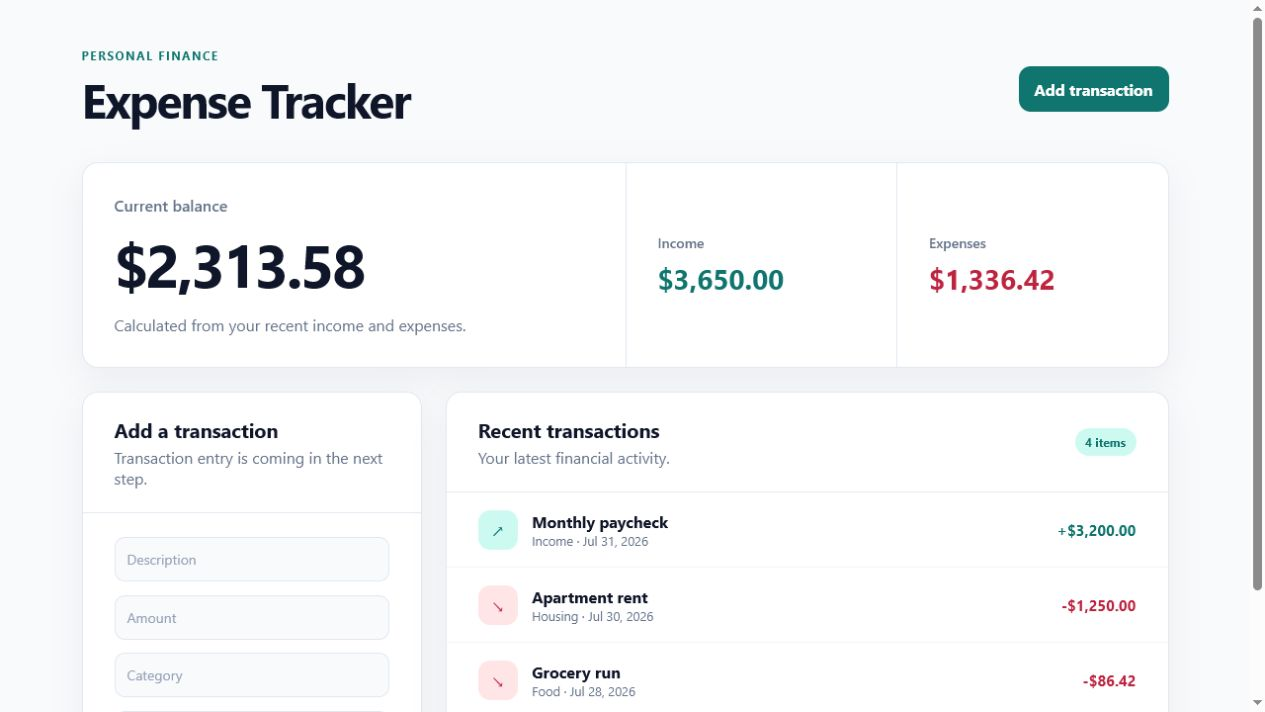
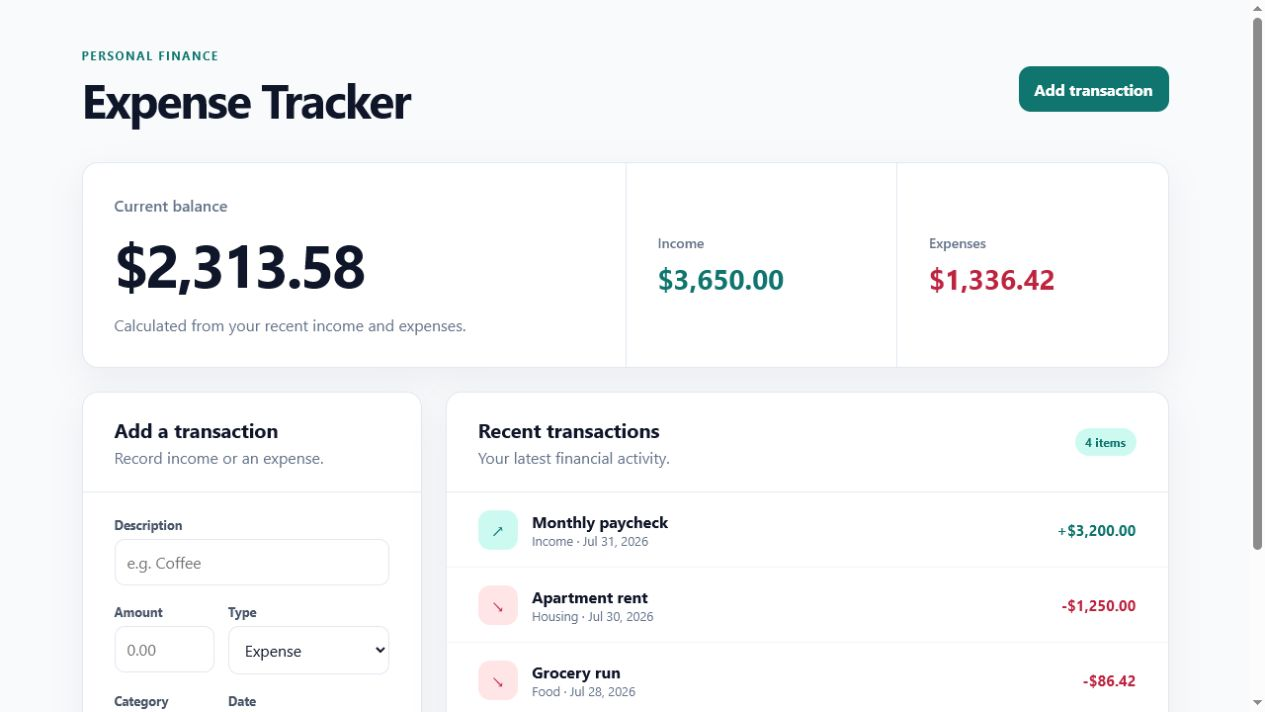
feat: add working transaction form

diff --git a/src/components/TransactionForm.jsx b/src/components/TransactionForm.jsx
@@ -1,18 +1,148 @@
-function TransactionForm() {
+import { useState } from 'react'
+
+const today = new Date()
+const localDate = `${today.getFullYear()}-${String(today.getMonth() + 1).padStart(2, '0')}-${String(
+  today.getDate(),
+).padStart(2, '0')}`
+
+const initialFormData = {
+  description: '',
+  amount: '',
+  type: 'expense',
+  category: 'Food',
+  date: localDate,
+}
+
+const categories = ['Food', 'Housing', 'Transportation', 'Entertainment', 'Income', 'Other']
+
+function TransactionForm({ descriptionInputRef, onAddTransaction }) {
+  const [formData, setFormData] = useState(initialFormData)
+  const [error, setError] = useState('')
+
+  function handleChange(event) {
+    const { name, value } = event.target
+
+    setFormData((currentFormData) => ({
+      ...currentFormData,
+      [name]: value,
+    }))
+    setError('')
+  }
+
+  function handleTypeChange(event) {
+    const type = event.target.value
+
+    setFormData((currentFormData) => ({
+      ...currentFormData,
+      type,
+      category: type === 'income' ? 'Income' : 'Food',
+    }))
+    setError('')
+  }
+
+  function handleSubmit(event) {
+    event.preventDefault()
+
+    const description = formData.description.trim()
+    const amount = Number(formData.amount)
+
+    if (!description || !Number.isFinite(amount) || amount <= 0) {
+      setError('Enter a description and an amount greater than zero.')
+      return
+    }
+
+    onAddTransaction({
+      ...formData,
+      description,
+      amount,
+    })
+    setFormData(initialFormData)
+    setError('')
+    descriptionInputRef.current?.focus()
+  }
+
   return (
     <section className="transaction-form" aria-labelledby="form-heading">
       <div className="section-heading">
         <h2 id="form-heading">Add a transaction</h2>
-        <p>Transaction entry is coming in the next step.</p>
+        <p>Record income or an expense.</p>
       </div>
-      <div className="form-preview" aria-hidden="true">
-        <span>Description</span>
-        <span>Amount</span>
-        <span>Category</span>
-        <button type="button" disabled>
-          Save transaction
-        </button>
-      </div>
+      <form className="transaction-entry-form" onSubmit={handleSubmit}>
+        <div className="form-field full-width-field">
+          <label htmlFor="description">Description</label>
+          <input
+            id="description"
+            name="description"
+            placeholder="e.g. Coffee"
+            ref={descriptionInputRef}
+            type="text"
+            value={formData.description}
+            onChange={handleChange}
+          />
+        </div>
+
+        <div className="form-field">
+          <label htmlFor="amount">Amount</label>
+          <input
+            id="amount"
+            min="0.01"
+            name="amount"
+            placeholder="0.00"
+            step="0.01"
+            type="number"
+            value={formData.amount}
+            onChange={handleChange}
+          />
+        </div>
+
+        <div className="form-field">
+          <label htmlFor="type">Type</label>
+          <select
+            id="type"
+            name="type"
+            value={formData.type}
+            onChange={handleTypeChange}
+          >
+            <option value="expense">Expense</option>
+            <option value="income">Income</option>
+          </select>
+        </div>
+
+        <div className="form-field">
+          <label htmlFor="category">Category</label>
+          <select
+            id="category"
+            name="category"
+            value={formData.category}
+            onChange={handleChange}
+          >
+            {categories.map((category) => (
+              <option key={category} value={category}>
+                {category}
+              </option>
+            ))}
+          </select>
+        </div>
+
+        <div className="form-field">
+          <label htmlFor="date">Date</label>
+          <input
+            id="date"
+            name="date"
+            type="date"
+            value={formData.date}
+            onChange={handleChange}
+          />
+        </div>
+
+        {error && (
+          <p className="form-error" role="alert">
+            {error}
+          </p>
+        )}
+
+        <button type="submit">Save transaction</button>
+      </form>
     </section>
   )
 }

diff --git a/src/App.css b/src/App.css
@@ -146,30 +146,68 @@ main {
   font-size: 1.25rem;
 }
 
-.form-preview {
+.transaction-entry-form {
   display: grid;
-  gap: 0.85rem;
+  grid-template-columns: 1fr 1fr;
+  gap: 0.45rem 0.85rem;
   padding: 1.5rem 2rem 2rem;
 }
 
-.form-preview span {
+.transaction-entry-form label {
   display: block;
+  margin-bottom: 0.4rem;
+  color: #475569;
+  font-size: 0.8rem;
+  font-weight: 700;
+}
+
+.full-width-field,
+.transaction-entry-form .form-error,
+.transaction-entry-form button {
+  grid-column: 1 / -1;
+}
+
+.transaction-entry-form input,
+.transaction-entry-form select {
+  width: 100%;
+  margin-bottom: 0.65rem;
   border: 1px solid #e2e8f0;
   border-radius: 0.65rem;
   padding: 0.75rem;
-  color: #94a3b8;
-  background: #f8fafc;
-  font-size: 0.875rem;
+  color: #0f172a;
+  background: #ffffff;
 }
 
-.form-preview button {
+.transaction-entry-form input:focus,
+.transaction-entry-form select:focus {
+  border-color: #0f766e;
+  outline: 3px solid #ccfbf1;
+}
+
+.transaction-entry-form button {
   border: 0;
   border-radius: 0.65rem;
   padding: 0.75rem;
-  color: #64748b;
-  background: #e2e8f0;
+  color: #ffffff;
+  background: #0f766e;
   font: inherit;
   font-weight: 700;
+  cursor: pointer;
+}
+
+.transaction-entry-form button:hover {
+  background: #115e59;
+}
+
+.transaction-entry-form button:focus-visible {
+  outline: 3px solid #5eead4;
+  outline-offset: 3px;
+}
+
+.form-error {
+  margin-bottom: 0.35rem;
+  color: #be123c;
+  font-size: 0.8rem;
 }
 
 .transaction-list-heading {
@@ -291,7 +329,7 @@ main {
   .balance-card,
   .summary-stat,
   .section-heading,
-  .form-preview,
+  .transaction-entry-form,
   .transaction-item {
     padding-right: 1.25rem;
     padding-left: 1.25rem;

diff --git a/src/App.jsx b/src/App.jsx
@@ -1,3 +1,4 @@
+import { useRef, useState } from 'react'
 import './App.css'
 import Summary from './components/Summary'
 import TransactionForm from './components/TransactionForm'
@@ -39,6 +40,20 @@ const sampleTransactions = [
 ]
 
 function App() {
+  const [transactions, setTransactions] = useState(sampleTransactions)
+  const descriptionInputRef = useRef(null)
+
+  function handleAddTransaction(transaction) {
+    setTransactions((currentTransactions) => [
+      { ...transaction, id: crypto.randomUUID() },
+      ...currentTransactions,
+    ])
+  }
+
+  function focusTransactionForm() {
+    descriptionInputRef.current?.focus()
+  }
+
   return (
     <div className="app-shell">
       <header className="app-header">
@@ -46,16 +61,23 @@ function App() {
           <p className="eyebrow">Personal finance</p>
           <h1>Expense Tracker</h1>
         </div>
-        <button className="primary-button" type="button">
+        <button
+          className="primary-button"
+          type="button"
+          onClick={focusTransactionForm}
+        >
           Add transaction
         </button>
       </header>
 
       <main>
-        <Summary transactions={sampleTransactions} />
+        <Summary transactions={transactions} />
         <div className="content-grid">
-          <TransactionForm />
-          <TransactionList transactions={sampleTransactions} />
+          <TransactionForm
+            descriptionInputRef={descriptionInputRef}
+            onAddTransaction={handleAddTransaction}
+          />
+          <TransactionList transactions={transactions} />
         </div>
       </main>
     </div>

diff --git a/README.md b/README.md
@@ -6,25 +6,33 @@ useful tool for recording transactions and monitoring spending.
 
 ## Working demo
 
-The current version displays sample transaction data through a reusable React
-component structure. The summary derives the balance, income, and expenses from
-that data, while the transaction list renders an item for each record.
+The app starts with sample transaction data and lets you add income or expenses
+through a controlled React form. New transactions immediately update the
+summary totals, item count, and recent-transactions list.
+
+### Transaction dashboard
 
 ![Personal Expense Tracker desktop demo](docs/expense-tracker-demo.png)
+
+### After adding an expense
+
+![Personal Expense Tracker after adding an expense](docs/expense-tracker-add-demo.png)
 
 ## Current features
 
 - Reusable summary, form, list, and transaction-item components
-- Sample transactions passed through props
-- Stable transaction IDs used as React keys
+- Controlled inputs for description, amount, type, category, and date
+- Add income and expense transactions to React state
+- Basic validation for descriptions and positive amounts
+- Form reset and focus management after submission
+- Stable generated transaction IDs used as React keys
 - Derived balance, income, and expense totals
-- Form placeholder for the next implementation step
 - Responsive application layout
 - Accessible headings, regions, focus styles, and controls
 
 ## Planned features
 
-- Add, edit, and delete transactions
+- Edit and delete transactions
 - Filter transactions by type and category
 - Save transactions with local storage
 
